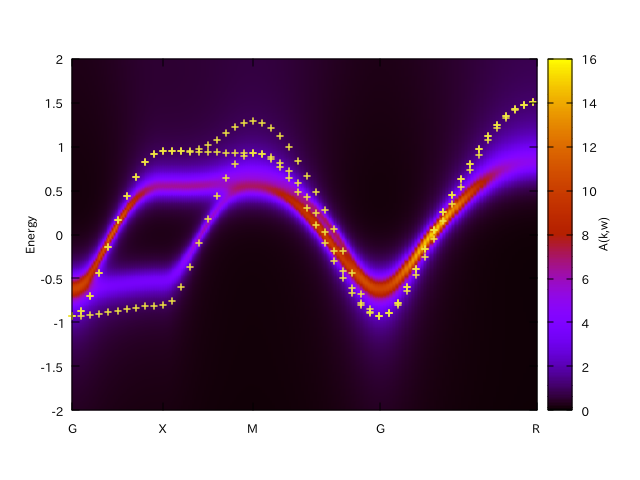
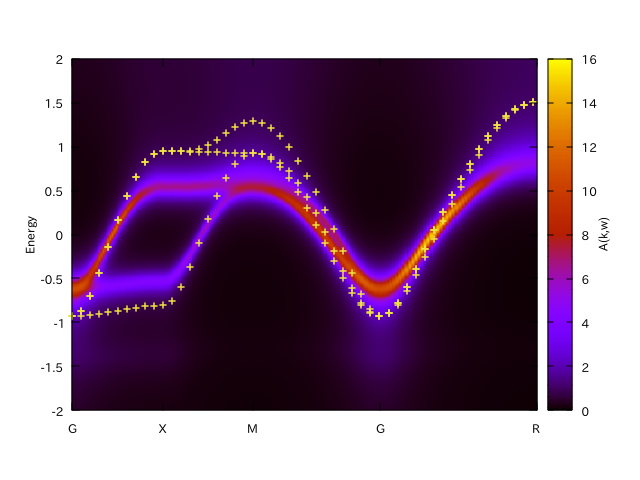
Complete SrVO3 examples.

diff --git a/doc/tutorial/cthyb/cthyb.rst b/doc/tutorial/cthyb/cthyb.rst
@@ -10,18 +10,70 @@ Basic parameters for QMC
 The accuracy of the TRIQS/cthyb calcuration depends on mainly the following
 three parameters.
 
- * n_cycles{int}
+ * ``n_cycles{int}``
 
+   **This parameter affects the statistical error.**
+ 
    The number of QMC cycles for comupting any quantities.
    The numerical noise can be reduced by increasing this parameter.
  
- * n_warmup_cycles{int}
+   When we use the MPI parallelism, the total number of QMC cycle
+   ( ``number-of-processes * n_cycles``) affects the accuracy.
+   Therefore,
+   **n_cycles in inverse propotion to the number of MPI processes keeps the accuracy**.
+ 
+ * ``n_warmup_cycles{int}``
 
+   **This parameter affects the systematical error.**
+ 
    The number of QMC cycles for the thermalization before the above main calculation.
    If it is insufficient, the state to be computed may be different from the
    equiribrium state.
 
- * length_cycle{int}
+   **This parameter is independent from the MPI parallelism.**
+ 
+ * ``length_cycle{int}``
 
+   **This parameter affects the systematical error.**
+ 
    Each QMC cycles have subcycles.
-   If
+   The length of this subcycle should be long enough to escape from the auto-correlation.
+
+   **This parameter is independent from the MPI parallelism.**
+
+The computational time is propotional to ``length_cycle*(n_cycles+n_warmup_cycles)``.
+We will show the procedure to find appropriate values for these parameter.   
+The sample case is the single-band Bethe lattice defined with the following input file.
+
+::
+
+   [model]
+   seedname = bethe
+   lattice = bethe
+   norb = 1
+   nelec = 1.0
+   t = 1.0
+   kanamori = [(4.0, 0.0, 0.0)]
+
+   [system]
+   beta = 40.0
+   nk = 100
+
+   [impurity_solver]
+   name = TRIQS/cthyb
+   n_warmup_cycles{int} = 5000
+   n_cycles{int} = 500000
+   length_cycle{int} = 50
+
+   [control]
+   max_step = 1
+
+   [tool]
+   omega_check = 30.0
+
+Only the first DMFT cycle is required for checking the effect of the QMC parameter.
+Therefore, we specify ``max_step = 1``.
+
+Step 1 : ``n_cycles``
+~~~~~~~~~~~~~~~~~~~~~
+

diff --git a/doc/tutorial/srvo3_openmx/openmx.rst b/doc/tutorial/srvo3_openmx/openmx.rst
@@ -17,15 +17,59 @@ SCF computation and Wannier with OpenMX
 
 .. literalinclude:: scf.dat
 
-DMFT
-----
+.. code-block:: bash
+                
+   $ openmx scf.dat
 
-First, convert the OpenMX output to the wannier90 format.
+Then, convert the OpenMX output to the wannier90 format.
 It can be performed with ``openmx2dcore`` utility as:
 
 .. code-block:: bash
                 
-   $ openmx2dcore.py SrVO3.HWR srvo3
+   $ openmx2dcore.py SrVO3 srvo3
 
-Then ``srvo3_hr.dat`` is generated.
-The rest is the same as :ref:`example for QE <qesrvo3>`.   
+DMFT calculation
+----------------   
+   
+:download:`srvo3.ini <srvo3_openmx.ini>`
+
+.. literalinclude:: srvo3_openmx.ini
+
+Please see :ref:`howtocthyb` for the details of the parameter setting.
+
+.. note::
+
+   The parameter ``n_cycles{int}`` should be tuned in inverse propotion to the number of MPI processes.
+   The following result is obtained with 432 MPI processes at ``n_cycles{int} = 10000``
+   (70 seconds per DMFT cycle on ISSP system B).
+   If we want to compute by using 32 MPI processes at the same accuracy,
+   ``n_cycles{int}`` should be 10000\*432/32=135000.
+                    
+DMFT setup: dcore_pre
+~~~~~~~~~~~~~~~~~~~~~~
+
+.. code-block :: bash
+
+   $ dcore_pre srvo3.ini
+
+Running self-consistent DFT+DMFT : dcore
+~~~~~~~~~~~~~~~~~~~~~~~~~~~~~~~~~~~~~~~~~
+
+.. code-block :: bash
+
+   $ dcore srvo3.ini
+
+Post-processing and data analysis: dcore_post
+~~~~~~~~~~~~~~~~~~~~~~~~~~~~~~~~~~~~~~~~~~~~~~
+
+.. code-block :: bash
+
+   $ dcore_post srvo3.ini
+   $ sed -e "s/every 10/every 1/g" srvo3_akw.gp
+   $ gnuplot nis_akw.gp
+
+.. image:: akw_srvo3.png
+   :width: 500
+   :align: center
+
+"+" indicates the original band structure.

diff --git a/doc/tutorial/srvo3_respack/respack.rst b/doc/tutorial/srvo3_respack/respack.rst
@@ -22,6 +22,14 @@ SCF calculation of Quantum ESPRESSO
 
 The pseudopotentials are downloaded from
 
+http://www.quantum-simulation.org/potentials/sg15_oncv/sg15_oncv_upf_2015-10-07.tar.gz
+
+They are part of
+`The SG15 Optimized Norm-Conserving Vanderbilt (ONCV) pseudopotentials <http://www.quantum-simulation.org/potentials/sg15_oncv/>`_.
+For the downfolding with RESPACK, we should use the norm-conserving pseudopotentials rather than
+the ultrasoft pseudopotentials or PAW.
+
+The SCF calculation of the electronic charge is performed as follows:
 
 .. code-block:: bash
                 
@@ -30,7 +38,7 @@ The pseudopotentials are downloaded from
 Wannierization
 --------------   
    
-Perform non-scf calculation for generating Bloch orbitals that are used
+Next, we perform non-scf calculation for generating Bloch orbitals that are used
 in the wannierization.
 
 :download:`nscf_respack.in <nscf_respack.in>`
@@ -148,4 +156,12 @@ Post-processing and data analysis: dcore_post
 
 .. code-block :: bash
 
-   $ dcore_post srvo3_respack.ini
+   $ dcore_post srvo3.ini
+   $ sed -e "s/every 10/every 3/g" srvo3_akw.gp
+   $ gnuplot nis_akw.gp
+
+.. image:: akw_srvo3.png
+   :width: 500
+   :align: center
+
+"x" indicates the original band structure.
